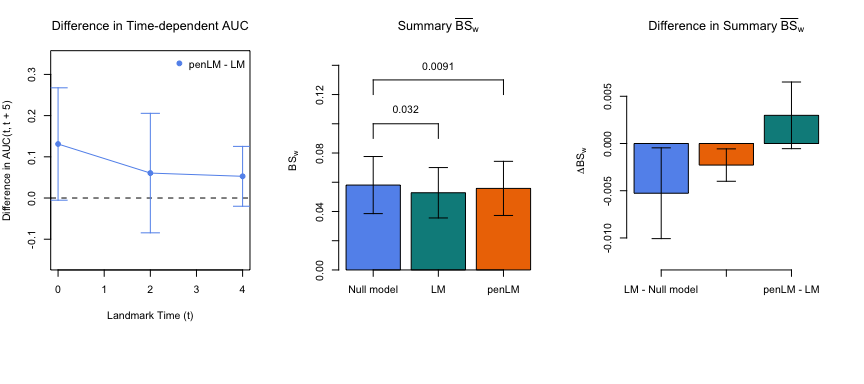
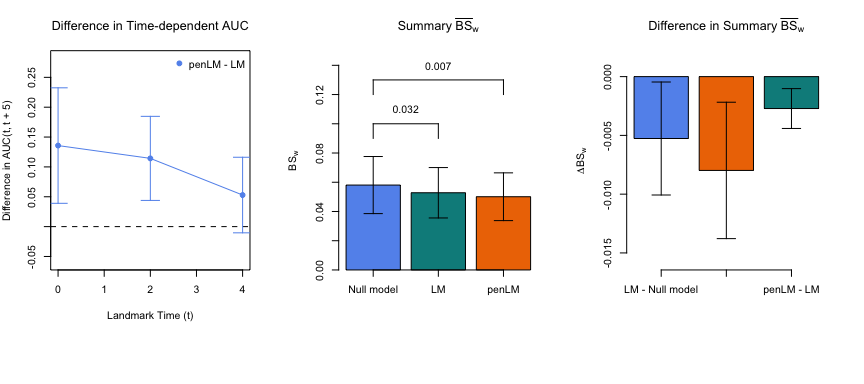
Update tutorials

diff --git a/README.md b/README.md
@@ -1,28 +1,24 @@
-- [1 dynamicLM](#dynamiclm)
-- [2 Introduction](#introduction)
-  - [2.1 What is landmarking and when is it
-    used?](#what-is-landmarking-and-when-is-it-used)
-  - [2.2 Installation](#installation)
-- [3 Tutorial: basic example](#tutorial-basic-example)
-  - [3.1 Data preparation](#data-preparation)
-    - [3.1.1 Data](#data)
-    - [3.1.2 Build a super data set](#build-a-super-data-set)
-  - [3.2 Model fitting](#model-fitting)
-    - [3.2.1 Traditional (unpenalized) landmark
-      supermodel](#traditional-unpenalized-landmark-supermodel)
-    - [3.2.2 Penalized landmark
-      supermodel](#penalized-landmark-supermodel)
-  - [3.3 Prediction](#prediction)
-    - [3.3.1 Training data](#training-data)
-    - [3.3.2 Testing data](#testing-data)
-  - [3.4 Model evaluation](#model-evaluation)
-    - [3.4.1 Calibration plots](#calibration-plots)
-    - [3.4.2 Predictive performance](#predictive-performance)
-    - [3.4.3 Bootstrapping](#bootstrapping)
-    - [3.4.4 External validation](#external-validation)
-    - [3.4.5 Visualize individual dynamic risk
-      trajectories](#visualize-individual-dynamic-risk-trajectories)
-- [4 References](#references)
+- [1 dynamicLM](https://github.com/thehanlab/dynamicLM/tree/extension/summary-metric?tab=readme-ov-file#1-dynamiclm)
+- [2 Introduction](https://github.com/thehanlab/dynamicLM/tree/extension/summary-metric?tab=readme-ov-file#2-introduction)
+  - [2.1 What is landmarking and when is it used?](https://github.com/thehanlab/dynamicLM/tree/extension/summary-metric?tab=readme-ov-file#21-what-is-landmarking-and-when-is-it-used)
+  - [2.2 Installation](https://github.com/thehanlab/dynamicLM/tree/extension/summary-metric?tab=readme-ov-file#22-installation)
+- [3 Tutorial: basic example](https://github.com/thehanlab/dynamicLM/tree/extension/summary-metric?tab=readme-ov-file#3-tutorial-basic-example)
+  - [3.1 Data preparation](https://github.com/thehanlab/dynamicLM/tree/extension/summary-metric?tab=readme-ov-file#31-data-preparation)
+    - [3.1.1 Data](https://github.com/thehanlab/dynamicLM/tree/extension/summary-metric?tab=readme-ov-file#311-data)
+    - [3.1.2 Build a super data set](https://github.com/thehanlab/dynamicLM/tree/extension/summary-metric?tab=readme-ov-file#312-build-a-super-data-set)
+  - [3.2 Model fitting](https://github.com/thehanlab/dynamicLM/tree/extension/summary-metric?tab=readme-ov-file#32-model-fitting)
+    - [3.2.1 Traditional (unpenalized) landmark supermodel](https://github.com/thehanlab/dynamicLM/tree/extension/summary-metric?tab=readme-ov-file#321-traditional-unpenalized-landmark-supermodel)
+    - [3.2.2 Penalized landmark supermodel](https://github.com/thehanlab/dynamicLM/tree/extension/summary-metric?tab=readme-ov-file#322-penalized-landmark-supermodel)
+  - [3.3 Prediction](https://github.com/thehanlab/dynamicLM/tree/extension/summary-metric?tab=readme-ov-file#33-prediction)
+    - [3.3.1 Training data](https://github.com/thehanlab/dynamicLM/tree/extension/summary-metric?tab=readme-ov-file#331-training-data)
+    - [3.3.2 Testing data](https://github.com/thehanlab/dynamicLM/tree/extension/summary-metric?tab=readme-ov-file#332-testing-data)
+  - [3.4 Model evaluation](https://github.com/thehanlab/dynamicLM/tree/extension/summary-metric?tab=readme-ov-file#34-model-evaluation)
+    - [3.4.1 Calibration plots](https://github.com/thehanlab/dynamicLM/tree/extension/summary-metric?tab=readme-ov-file#341-calibration-plots)
+    - [3.4.2 Predictive performance](https://github.com/thehanlab/dynamicLM/tree/extension/summary-metric?tab=readme-ov-file#342-predictive-performance)
+    - [3.4.3 Bootstrapping](https://github.com/thehanlab/dynamicLM/tree/extension/summary-metric?tab=readme-ov-file#343-bootstrapping)
+    - [3.4.4 External validation](https://github.com/thehanlab/dynamicLM/tree/extension/summary-metric?tab=readme-ov-file#344-external-validation)
+    - [3.4.5 Visualize individual dynamic risk trajectories](https://github.com/thehanlab/dynamicLM/tree/extension/summary-metric?tab=readme-ov-file#345-visualize-individual-dynamic-risk-trajectories)
+- [4 References](https://github.com/thehanlab/dynamicLM/tree/extension/summary-metric?tab=readme-ov-file#4-references)
 
 <!-- README.md is generated from README.Rmd. Please edit that file -->
 
@@ -95,9 +91,8 @@ covariates, modeled by $\beta_j (s)$, captures the time-dependent
 effects of covariates. For example, $\beta(s)= \beta_0+ \beta_1 s$
 models a main and linear time-dependent effect.
 
-> A more detailed mathematical explanation of the landmark supermodel is
-> detailed in [a separate
-> file](https://github.com/thehanlab/dynamicLM/blob/extension/summary-metric/tutorials/theory-landmark-supermodel.md).
+> We offer a [short introduction to the theory behind the landmark
+> supermodel](https://github.com/thehanlab/dynamicLM/blob/extension/summary-metric/tutorials/theory-landmark-supermodel.md).
 
 In short, the creation of the landmark model for survival data is built
 on the concept of risk assessment times (i.e., landmarks) that span risk
@@ -124,7 +119,7 @@ devtools::install_github("thehanlab/dynamicLM", ref = "extension/summary-metric"
 ```
 
 Package documentation can be found in [this
-pdf](https://github.com/thehanlab/dynamicLM/blob/main/man/dynamicLM_1.0.0.pdf)
+pdf](https://github.com/thehanlab/dynamicLM/blob/extension/summary-metric/tutorials/dynamicLM_1.0.0.pdf)
 and more information about any function can be obtained by running
 `?function_name`.
 
@@ -134,8 +129,8 @@ This is a basic example which shows you how to use `dynamicLM` to make
 dynamic 5-year predictions and check calibration and discrimination
 metrics.
 
-> We have \[an alternative
-> tutorial\]((<https://github.com/thehanlab/dynamicLM/blob/extension/summary-metric/tutorials/tutorial2-recurrence-data.md>)
+> We have [an alternative
+> tutorial](https://github.com/thehanlab/dynamicLM/blob/extension/summary-metric/tutorials/tutorial2-recurrence-data.md)
 > which uses cancer relapse data. This is the example first used at the
 > time of publishing the [Software Application Profile in
 > IJE](https://academic.oup.com/ije/article/52/6/1984/7260912), and only
@@ -701,9 +696,8 @@ curve or time-dependent dynamic Brier score. This enables one score per
 model or one comparison for a pair of models.
 
 ``` r
-# scores <- score(list("LM" = p1, "penLM" = p2),
-#                 times = c(0, 2, 4), # landmarks at which to assess
-#                 summary = TRUE)     # also include the summary metrics
+scores <- score(list("LM" = p1, "penLM" = p2),
+                times = c(0, 2, 4)) # landmarks at which to assess
 ```
 
 These results can be printed:
@@ -717,9 +711,11 @@ print(scores, landmarks = FALSE)    # only print summary metrics
 These results can also be plot with point wise confidence intervals.
 
 ``` r
-# par(mfrow = c(1, 4))
-# plot(scores, summary = TRUE)
+par(mfrow = c(1, 4))
+plot(scores, summary = TRUE)
 ```
+
+<img src="man/figures/README-score-1.png" width="100%" />
 
 Additional parameters control which plots to include and additional
 information, for example, one can remove confidence intervals (first
@@ -730,28 +726,30 @@ example), or by plotting the contrasts directly (third example). See
 `?plot.LMScore` for more information.
 
 ``` r
-# # Three plots and make extra space below for the x-labels
-# par(mfrow = c(1, 3), mar = c(9, 4, 4, 3)) 
-# 
-# # E.g., plot only the time-dependent AUC contrasts without CIs
-# plot(scores, brier = FALSE, landmarks = TRUE, 
-#      summary = FALSE, contrasts = TRUE, se = FALSE)
-# 
-# # E.g., plot only summary BS and add p-value comparisons
-# plot(scores, auc = FALSE, landmarks = FALSE, summary = TRUE,
-#      ylim = c(0, 0.15), 
-#      las = 2,                                # Rotate x-axis labels
-#      add_pairwise_contrasts = TRUE,          # Include the contrasts
-#      cutoff_contrasts = 0.05,                # Significance cutoff, default 0.05
-#      pairwise_heights = c(0.1, 0.13),        # Height of the contrast labels 
-#                                              #  (only 2/3 are significant so 
-#                                              #  only need to specify 2 heights)
-#      width = 0.01)                           # Width of ends of bars
-# 
-# # E.g., plot summary BS contrasts
-# plot(scores, auc = FALSE, landmarks = FALSE, summary = TRUE, 
-#      contrasts = TRUE, las = 2)
+# Three plots and make extra space below for the x-labels
+par(mfrow = c(1, 3), mar = c(9, 4, 4, 3))
+
+# E.g., plot only the time-dependent AUC contrasts without CIs
+plot(scores, brier = FALSE, landmarks = TRUE,
+     summary = FALSE, contrasts = TRUE, se = FALSE)
+
+# E.g., plot only summary BS and add p-value comparisons
+plot(scores, auc = FALSE, landmarks = FALSE, summary = TRUE,
+     ylim = c(0, 0.15),
+     las = 2,                                # Rotate x-axis labels
+     add_pairwise_contrasts = TRUE,          # Include the contrasts
+     cutoff_contrasts = 0.05,                # Significance cutoff, default 0.05
+     pairwise_heights = c(0.1, 0.13),        # Height of the contrast labels
+                                             #  (only 2/3 are significant so
+                                             #  only need to specify 2 heights)
+     width = 0.01)                           # Width of ends of bars
+
+# E.g., plot summary BS contrasts
+plot(scores, auc = FALSE, landmarks = FALSE, summary = TRUE,
+     contrasts = TRUE, las = 2)
 ```
+
+<img src="man/figures/README-scoreextra-1.png" width="100%" />
 
 ### 3.4.3 Bootstrapping
 

diff --git a/tutorials/tutorial2-recurrence-data.md b/tutorials/tutorial2-recurrence-data.md
@@ -1,22 +1,14 @@
-- [1 Basic Example](#basic-example)
-  - [1.1 Installation](#installation)
-  - [1.2 Data](#data)
-  - [1.3 Build a super data set](#build-a-super-data-set)
-  - [1.4 Fit the super model](#fit-the-super-model)
-  - [1.5 Obtain predictions](#obtain-predictions)
-  - [1.6 Model evaluation/validation](#model-evaluationvalidation)
-
 <!-- README.md is generated from README.Rmd. Please edit that file -->
 <!-- badges: start -->
 <!-- badges: end -->
 
-# 1 Basic Example
+# Basic Example 2
 
 This is a basic example which shows you how to use `dynamicLM` to make
 dynamic 5-year predictions and check calibration and discrimination
 metrics.
 
-## 1.1 Installation
+## Installation
 
 You can install the development version of `dynamicLM` from
 [GitHub](https://github.com/) with:
@@ -24,16 +16,17 @@ You can install the development version of `dynamicLM` from
 ``` r
 # install.packages("devtools")
 devtools::install_github("thehanlab/dynamicLM", ref = "extension/summary-metric")
-#> Skipping install of 'dynamicLM' from a github remote, the SHA1 (938bbd48) has not changed since last install.
+#> Using github PAT from envvar GITHUB_PAT. Use `gitcreds::gitcreds_set()` and unset GITHUB_PAT in .Renviron (or elsewhere) if you want to use the more secure git credential store instead.
+#> Skipping install of 'dynamicLM' from a github remote, the SHA1 (96b19ed9) has not changed since last install.
 #>   Use `force = TRUE` to force installation
 ```
 
 Package documentation can be found in [this
-pdf](https://github.com/thehanlab/dynamicLM/blob/main/man/dynamicLM_0.3.0.pdf)
+pdf](https://github.com/thehanlab/dynamicLM/blob/extension/summary-metric/tutorials/dynamicLM_1.0.0.pdf)
 and more information about any function can be obtained by running
 `?function_name`.
 
-## 1.2 Data
+## Data
 
 We illustrate the package using the long-form example data set given in
 the package. This gives the time-to-event of cancer relapse under two
@@ -46,9 +39,13 @@ and `T_txgiven` gives the time at which this patient entry was created.
 library(dynamicLM)
 #> Loading required package: dynpred
 #> Loading required package: survival
+#> Warning: package 'survival' was built under R version 4.2.3
 #> Loading required package: prodlim
 #> Loading required package: riskRegression
-#> riskRegression version 2024.04.25
+#> Registered S3 method overwritten by 'riskRegression':
+#>   method     from    
+#>   nobs.coxph survival
+#> riskRegression version 2024.06.13
 ```
 
 ``` r
@@ -62,7 +59,7 @@ length(unique(relapse$ID)) # There are 171 patients with two entries, i.e., one 
 #> [1] 818
 ```
 
-## 1.3 Build a super data set
+## Build a super data set
 
 We first note the outcome variables we are interested in, as well as
 which variables are fixed or landmark-varying. When there are no
@@ -209,7 +206,7 @@ stored objects to be printed (default is FALSE).
 print(lmdata, verbose = TRUE)
 ```
 
-## 1.4 Fit the super model
+## Fit the super model
 
 Now we can fit the model. We fit a model with all the covariates
 created. Note that `lmdata$all_covs` returns a vector with all the
@@ -323,9 +320,9 @@ plot(supermodel)
 plot(supermodel, covars = c("age", "male"))
 ```
 
-## 1.5 Obtain predictions
+## Obtain predictions
 
-### 1.5.1 For the training data
+### For the training data
 
 Predictions for the training data can easily be obtained. This provides
 *w*-year risk estimates for each individual at each of the training
@@ -352,7 +349,7 @@ additional stored objects to be printed (default is FALSE).
 print(p1, verbose = TRUE)
 ```
 
-### 1.5.2 For new data
+### For new data
 
 A prediction is made for an individual at a specific prediction time.
 Thus both a prediction (“landmark”) time (e.g., at baseline, at 2 years,
@@ -384,7 +381,7 @@ p0$preds
 #> 2  0 0.04641678
 ```
 
-## 1.6 Model evaluation/validation
+## Model evaluation/validation
 
 Calibration plots, which assess the agreement between predictions and
 observations in different percentiles of the predicted values, can be
@@ -420,77 +417,21 @@ Brier score (BSt).
 ``` r
 scores <- score(list("LM supermodel" = p1),
                      times = c(6, 12, 18, 24)) # landmarks at which to assess
-scores
-#> 
-#> Metric: Time-dependent AUC (w = 60)
-#> 
-#> Results by model:
-#> 
-#>      tLM         model    AUC  lower  upper
-#>    <num>        <fctr> <char> <char> <char>
-#> 1:     6 LM supermodel 61.808 51.891 71.726
-#> 2:    12 LM supermodel 60.855 50.447 71.262
-#> 3:    18 LM supermodel 61.374 51.034 71.714
-#> 4:    24 LM supermodel 55.188 43.949 66.427
-#> 
-#> NOTE: Values are multiplied by 100 and given in %.
-#> NOTE: The higher AUC the better.
-#> NOTE: Predictions are made at time tLM for time tLM + 60
-#> 
-#> Metric: Time-dependent Brier Score (w = 60)
-#> 
-#> Results by model:
-#> 
-#>      tLM         model  Brier  lower  upper
-#>    <num>        <fctr> <char> <char> <char>
-#> 1:     6    Null model  8.493  6.288 10.698
-#> 2:     6 LM supermodel  8.141  6.017 10.266
-#> 3:    12    Null model 11.152  8.420 13.883
-#> 4:    12 LM supermodel 10.639  7.945 13.333
-#> 5:    18    Null model 11.582  8.591 14.574
-#> 6:    18 LM supermodel 11.163  8.246 14.081
-#> 7:    24    Null model 11.494  8.231 14.758
-#> 8:    24 LM supermodel 11.467  8.247 14.687
-#> 
-#> NOTE: Values are multiplied by 100 and given in %.
-#> NOTE: The lower Brier the better.
-#> NOTE: Predictions are made at time tLM for time tLM + 60
-#> 
-#> Metric: Averaged time-dependent AUC (w = 60)
-#> 
-#> Results by model:
-#> 
-#>            model    AUC  lower  upper
-#>           <fctr> <char> <char> <char>
-#> 1: LM supermodel 59.806 54.505 65.107
-#> 
-#> NOTE: Values are multiplied by 100 and given in %.
-#> NOTE: The higher AUC the better.
-#> NOTE: Predictions are made at time tLM for time tLM + 60
-#> 
-#> Metric: Averaged time-dependent Brier Score (w = 60)
-#> 
-#> Results by model:
-#> 
-#>            model  Brier  lower  upper
-#>           <fctr> <char> <char> <char>
-#> 1:    Null model 10.680  9.235 12.126
-#> 2: LM supermodel 10.353  8.963 11.742
-#> 
-#> NOTE: Values are multiplied by 100 and given in %.
-#> NOTE: The lower Brier the better.
-#> NOTE: Predictions are made at time tLM for time tLM + 60
 ```
 
-These results can also be plot with point wise confidence intervals.
-Setting `se = FALSE` in plot excludes the intervals.
+These results can also be print or plot with point wise confidence
+intervals. Setting `se = FALSE` in plot excludes the intervals.
 
 ``` r
-par(mfrow = c(1, 2))
+print(scores)
+```
+
+``` r
+par(mfrow = c(1, 4))
 plot(scores)
 ```
 
-<img src="man/figures/README-unnamed-chunk-22-1.png" width="100%" /><img src="man/figures/README-unnamed-chunk-22-2.png" width="100%" />
+<img src="man/figures/README-unnamed-chunk-23-1.png" width="100%" />
 
 **Bootstrapping** can be performed by calling `calplot()` or `score()`
 and setting the arguments `split.method = "bootcv"` and `B = 10` (or
@@ -534,7 +475,7 @@ cal <- calplot(list("CSC" = supermodel), cause = 1, data = newdata, lms = "LM",
 score(list("CSC" = supermodel), cause = 1, data = newdata, lms = "LM")
 ```
 
-### 1.6.1 Visualize individual dynamic risk trajectories
+### Visualize individual dynamic risk trajectories
 
 Individual risk score trajectories can be plotted. As with `predict()`,
 the data input is in the form of the original data. For example, we can
